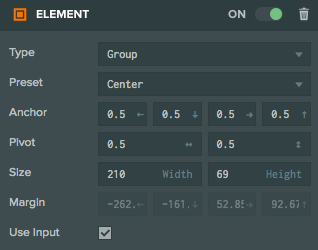
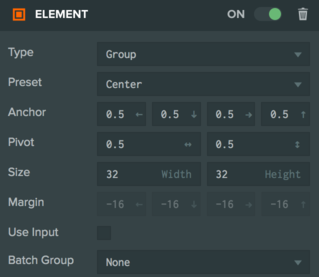
Added docs for batching

diff --git a/content/en/user-manual/optimization/batching.md b/content/en/user-manual/optimization/batching.md
@@ -1,0 +1,37 @@
+---
+title: Batching
+template: usermanual-page.tmpl.html
+position: 3
+---
+
+Batching is the process of combining data for multiple models (e.g. vertex buffers) together into a single data set. This is designed to reduce the number of draw calls (ideally down to just 1) necessary to render the models. This works at the level of the mesh instance, e.g. combining 10 mesh instances that share a material, into a single mesh instance.
+
+Use cases:
+* Combine multiple static scene mesh instances into one, but ideally also split them into local groups, so culling is possible. *(Example: environment)*
+* Combine dynamic (moving or otherwise changing) models into a single mesh. *(Example: doors, cars, machinery, fake particles, anything movable & non-skinned. Dynamic batches can be also used to create different levels by just moving parts of environment around differently without recombining overhead)*
+* Combine all mesh instances inside of some entity into one. Use the combined version for every clone of this entity. *(Example: multiple instances of complex animated models)*.
+
+## Terms and Definitions
+
+### Batch Manager
+
+The Batch Manager is created in the application and exposes an API to create and update batches. See the API reference [here][1].
+
+### Batch Group
+
+Batch Groups are defined in the Editor by creating them under the [Settings panel][2]. Then the user can select the batch group on [Model][3] and [Element][4] components. The batch group defines a set of mesh instances that the user desires to be batched together. At runtime the Batch Group can be divided into Batches. Batching behaviour can be set up differently for each group.
+
+A batch group has the following properties:
+
+* **Name**: Used to differentiate different batch groups, ideally it would describe the kinds of objects that this batch group will have.
+* **Dynamic**: If enabled then objects inside the batch group can still move/rotate/scale. You can use this for objects that are similar to each other and use the same materials e.g. bullets. Disable Dynamic if this batch group is for static objects e.g. walls.
+* **Max AABB size**: This is the maximum size on each axis for the bounding box that contains all of the objects in the batch group. If you set this to a large value then more objects around the scene will be in the same batch, therefore less draw calls will be generated. However, the dimensions of the batch will be larger thus harder to cull so it will get drawn more vs a smaller batch which would be easier to cull when not visible.
+
+### Batch
+
+A Batch is a set of mesh instances that are able to be drawn in a single draw call.
+
+[1]: /api/pc.BatchManager.html
+[2]: /user-manual/designer/settings/#batch-groups
+[3]: /user-manual/packs/components/model
+[4]: /user-manual/packs/components/element

diff --git a/content/en/user-manual/optimization/guidelines.md b/content/en/user-manual/optimization/guidelines.md
@@ -17,6 +17,7 @@ Here are some tips and hints on how to achieve good performance in your PlayCanv
 * Be mindful of the number of dynamic lights in your scene. Keep them to a minimum.
 * Enabling shadow casting on dynamic lights is expensive. Point light shadows are particularly expensive. For each point light that casts shadow, the scene must be rendered 6 times into a shadow map.
 * In PlayCanvas, a mesh instance is a draw call (a command to draw an individual graphical primitive). Each draw call requires some effort on the CPU to dispatch to WebGL. Therefore, keeping the number of draw calls low is advisable, particularly on mobile. You can see a list of the draw calls for a particular Model by selecting the model asset and viewing it in the Inspector. 100-200 draw calls is a rough target for low end mobile devices. High end desktop machines on the other hand can process thousands every frame and still maintain 60fps.
+* Use [Batching][1] to reduce draw calls. By creating Batch Groups in your Project and assigning them to Model and Element components, the engine will try to merge them in as few mesh instances as possible, reducing draw calls and increasing performance.
 * Be careful when enabling 'Use Device Pixel Ratio' in your project settings. This will cause your PlayCanvas app to utilize the native resolution of a device reducing pixellation but can result in many more pixels being filled, which can cause a significant drop in framerate.
 * Keep the number of blended mesh instances in your scene to a minimum. Blended meshes are deferred until all opaque mesh instances have been dispatched and are then submitted in back to front camera depth order. This results in pixels being filled multiple times and can result in a lot of render state changes since blended meshes cannot be sorted by material.
 * Try to keep the number of shaders generated by your app as low as possible. Shaders have to be compiled and linked on demand and this operation is expensive, causing delay in app startup and glitches in framerate. If material A has an emissive map but material B doesn't, two shaders will be generated. If you set a black emissive map on material B, the materials can share the same shader. Reducing the number of materials in your scene should also reduce the number of generated shaders.
@@ -28,3 +29,5 @@ Here are some tips and hints on how to achieve good performance in your PlayCanv
 
 * Collision meshes do not need to be the same level of detail as the renderable mesh. It is recommended that you set a lower resolution mesh for collision.
 * Keep the number of dynamic rigid bodies in your scene to a minimum, particularly on mobile.
+
+[1]: /user-manual/optimization/batching

diff --git a/content/en/user-manual/designer/settings.md b/content/en/user-manual/designer/settings.md
@@ -167,6 +167,10 @@ Scene-wide multiplier applied to all lightmap sizes.
 
 The maximum texture size available for generated lightmap textures.
 
+## Batch Groups
+
+Here you can create and manage Batch Groups for the Project. You can assign [Model][7] components and [Element][8] components to Batch Groups and the engine will attempt to reduce draw calls by merging the mesh instances of objects in the same group together. See more on Batching [here][9].
+
 ## Loading Screen (Available for ORG users only)
 
 Here you can set the script that creates the loading screen of you application. To create a new loading screen script click *Create Default*. See more information about custom loading screens [here][6].
@@ -207,3 +211,6 @@ When importing a scene (e.g. an FBX) this setting decides whether texture files 
 [4]: /images/user-manual/gamma-correction.jpg
 [5]: http://http.developer.nvidia.com/GPUGems3/gpugems3_ch24.html
 [6]: /user-manual/designer/loading-screen
+[7]: /user-manual/packs/components/model
+[8]: /user-manual/packs/components/element
+[9]: /user-manual/optimization/batching

diff --git a/content/en/user-manual/packs/components/model.md b/content/en/user-manual/packs/components/model.md
@@ -36,6 +36,7 @@ The Model component can be enabled or disabled using the toggle in the top right
     <tr><td>Receive Shadows</td><td>If enabled, the model rendered by this component will receive shadows cast by other models in the scene.</td></tr>
     <tr><td>Static</td><td>If the model never moves, check this box as a hint to the engine to make certain optimizations.</td></tr>
     <tr><td>Lightmapped</td><td>If enabled, this model does not receive lighting from dynamic lights. Instead it receives lighting generated by lightmap lights.</td></tr>
+    <tr><td>Batch Group</td><td>The Batch Group that this model belongs to. More on Batching [here][5].</td></tr>
 </table>
 
 ## Scripting Interface
@@ -50,3 +51,4 @@ You can learn how to customize the materials of your model [here][4].
 [2]: /user-manual/packs/components/script
 [3]: /engine/api/stable/symbols/pc.ModelComponent.html
 [4]: /user-manual/assets/materials/#assigning-materials
+[5]: /user-manual/optimization/batching

diff --git a/content/en/user-manual/packs/components/element.md b/content/en/user-manual/packs/components/element.md
@@ -39,6 +39,7 @@ The text element renders a string of text using a [font asset][5].
     <tr><td>Size</td><td>The width and height of the Element. This may be automatically calculated depending on other settings</td></tr>
     <tr><td>Margin</td><td>The distance from the edge of the element to the Anchor. This is only available when the Anchor is split (non-equal in one axis).</td></tr>
     <tr><td>Use Input</td><td>If enabled, this Element is added to the list of elements that check for input and fire input related events.</td></tr>
+    <tr><td>Batch Group</td><td>The Batch Group that this Element belongs to. More on Batching [here][6]</td></tr>
 </table>
 
 ## Image Component Properties
@@ -75,3 +76,4 @@ The text element renders a string of text using a [font asset][5].
 [3]: /images/user-manual/scenes/components/component-element-text.png
 [4]: /user-manual/user-interface/layout
 [5]: /user-manual/assets/fonts/
+[6]: /user-manual/optimization/batching/

diff --git a/content/en/user-manual/optimization/profiler.md b/content/en/user-manual/optimization/profiler.md
@@ -1,7 +1,7 @@
 ---
 title: Profiler
 template: usermanual-page.tmpl.html
-position: 1
+position: 2
 ---
 
 PlayCanvas provides an real-time profiler to assist in diagnosing performance problems.

diff --git a/content/en/user-manual/optimization/troubleshooting-performance.md b/content/en/user-manual/optimization/troubleshooting-performance.md
@@ -1,7 +1,7 @@
 ---
 title: Troubleshooting Performance
 template: usermanual-page.tmpl.html
-position: 1
+position: 4
 ---
 
 Here are some tips to help you uncover common performance problems
